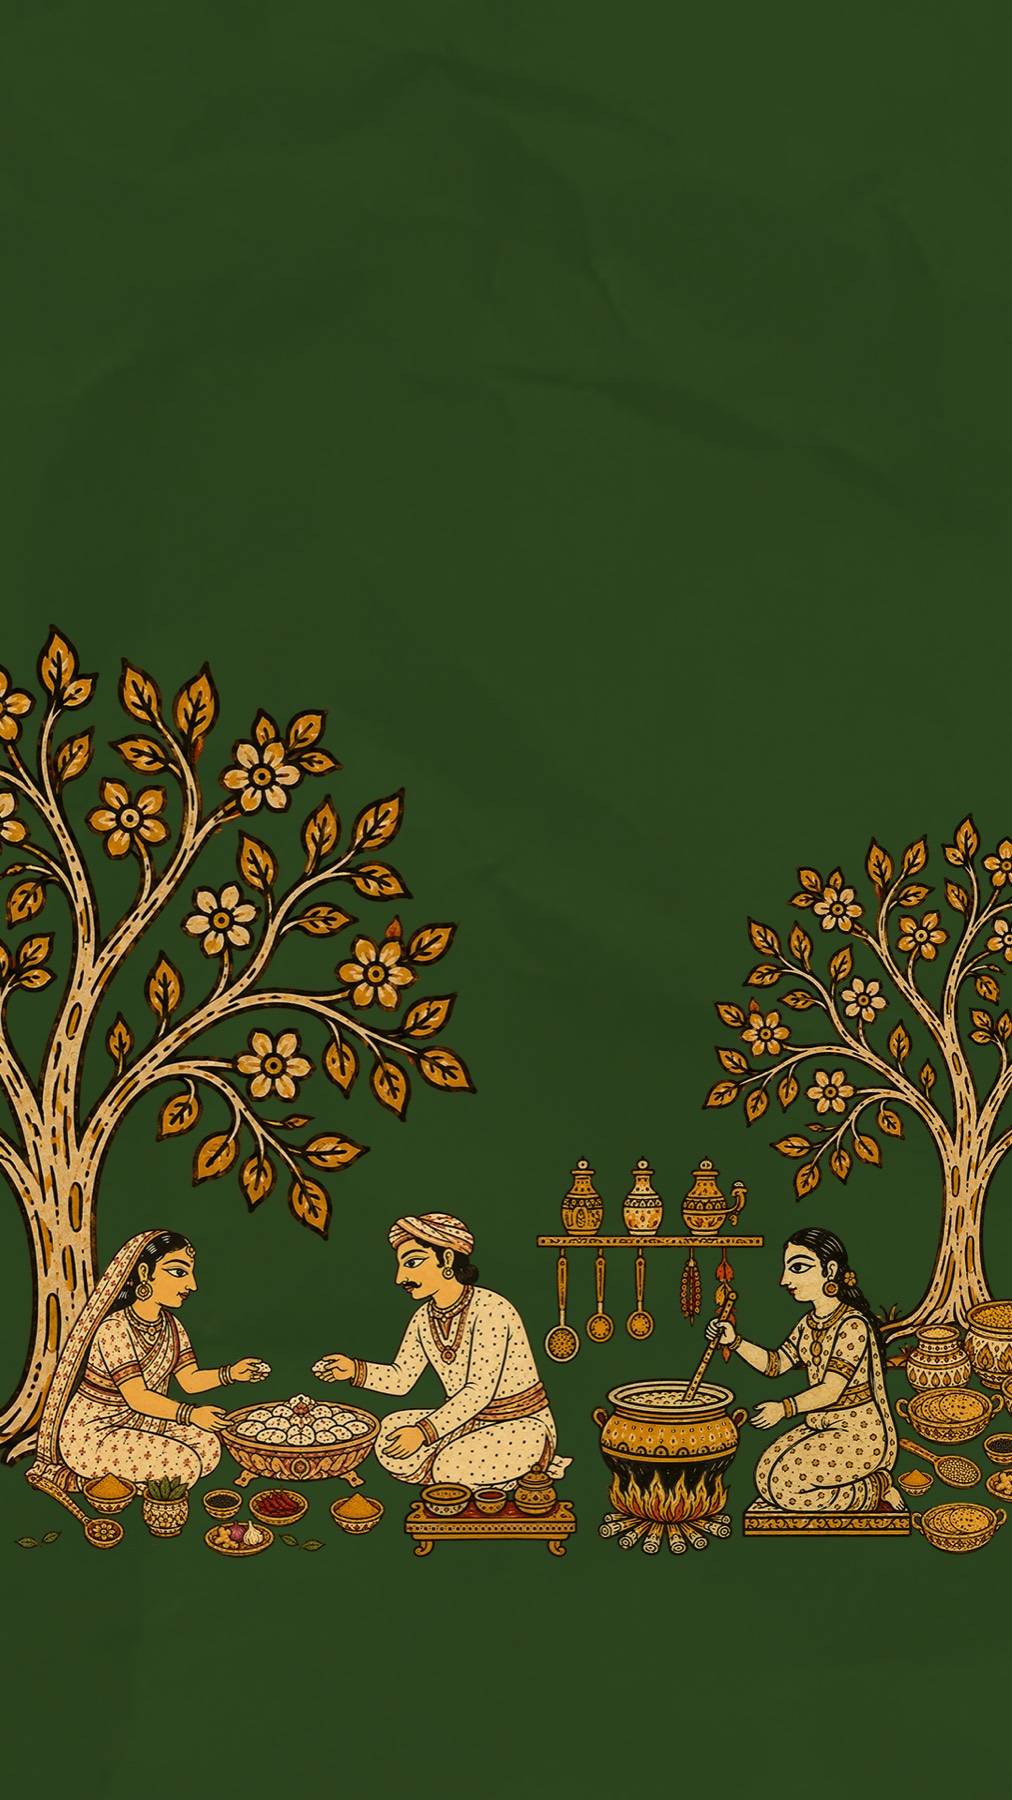
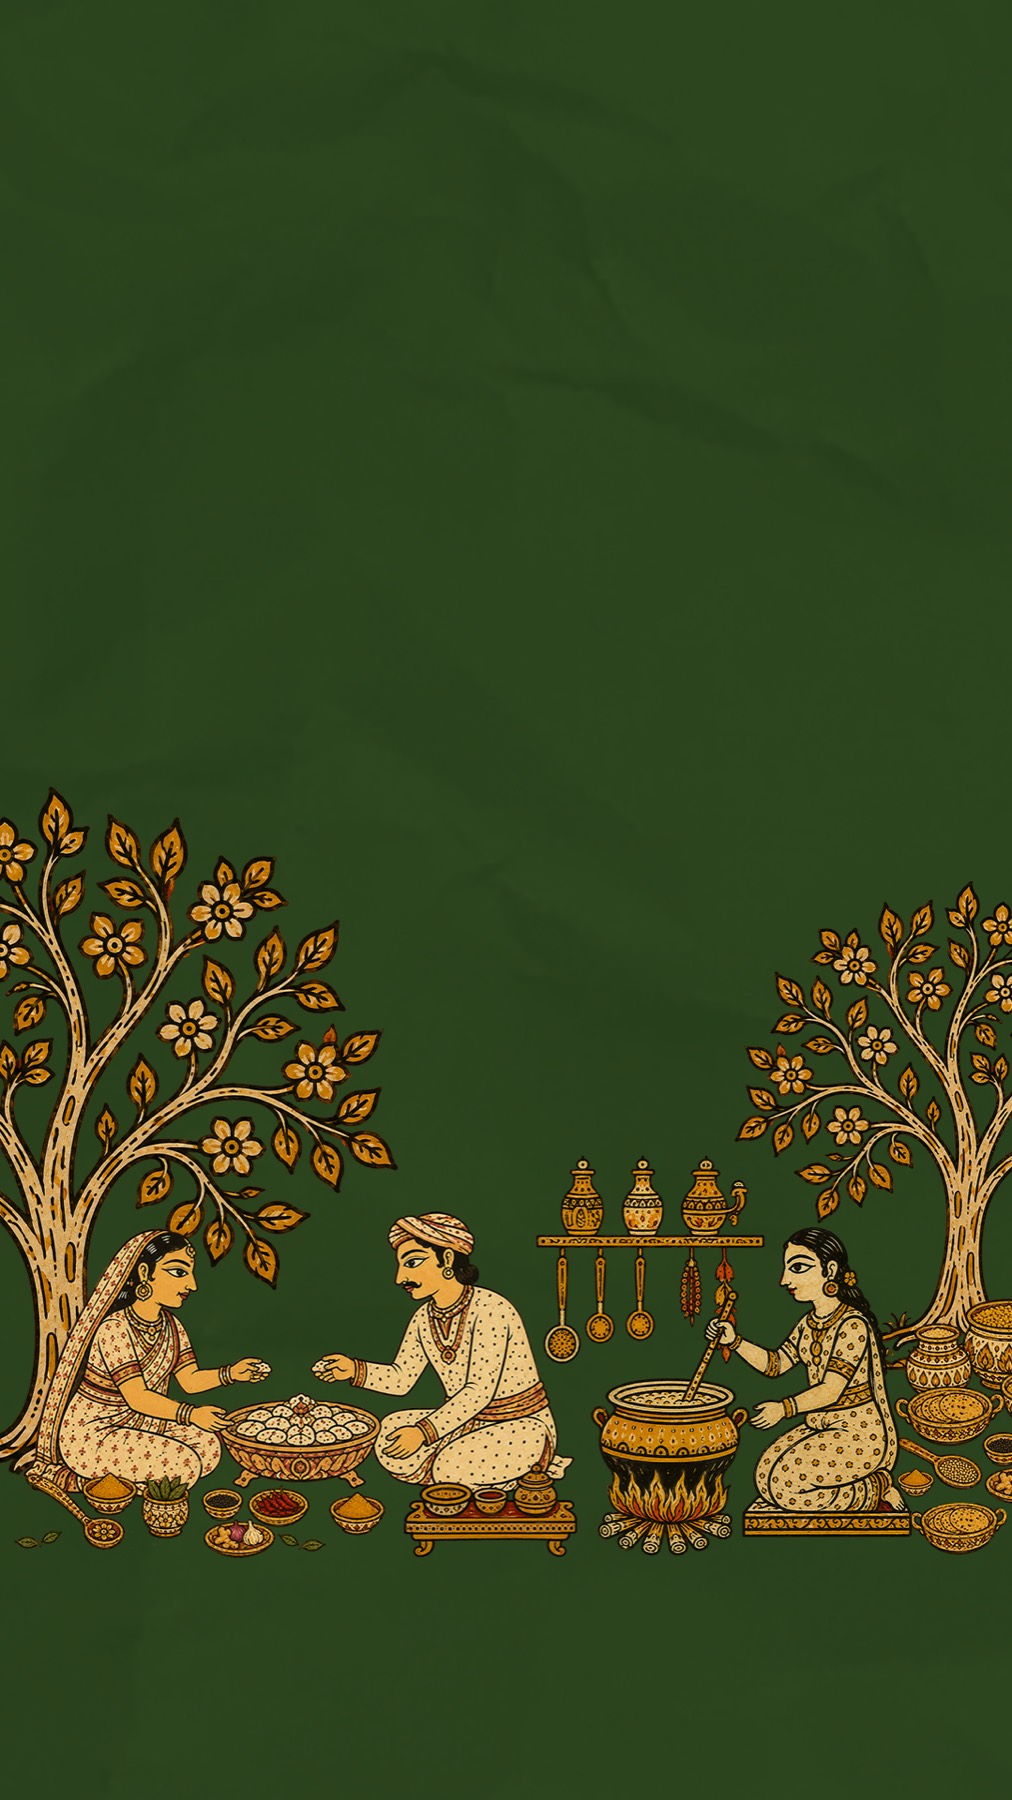
New phone plate, a smaller deck on phones, and the hero raised
Three separate asks.

The phone background becomes "Ui-cover-page 9-16", re-encoded to the 1012x1800
the stylesheet already asks for. Its ground samples #2c441e, the same green as
the plate it replaces, so --ground still agrees with the image and no token
moves. The desktop plate is untouched. The new art carries a band of empty
ground under the figures, so bottom-anchored it lifts them clear of the
composer instead of tucking them behind it.

The deck drops to 14px on phones only. The headline falls from 56px to 24px
there, and 16px beside it is close enough that the two read as one block of
text rather than a title and a line under it.

The mark rises 37px on desktop, from 107px down to 70px. The stack is
top-anchored, so the hero-wrap's top padding is the only thing above it and
the only way to raise it — the whole block rides up with it, which is the
point: the page was carrying more empty ground above the logo than the
composition wanted.

Changed region(s): [[0.0, 0.3422, 0.4901, 0.84], [0.7045, 0.4356, 1.0, 0.7778]]

diff --git a/src/app/globals.css b/src/app/globals.css
@@ -756,7 +756,11 @@ body {
   display: flex;
   flex-direction: column;
   align-items: center;
-  padding: clamp(40px, 13vh, 150px) var(--s-5) var(--s-5);
+  /* The stack is top-anchored, so this top padding is the only thing above the
+     mark and the only way to raise it. Lowered from 13vh: the page was carrying
+     more empty ground above the logo than below the composer, and the whole
+     block rides up with it. */
+  padding: clamp(28px, 8.5vh, 104px) var(--s-5) var(--s-5);
   overflow-y: auto;
 }
 
@@ -1776,6 +1780,13 @@ body {
      and the break it was fighting is a <br> that holds at every width. */
   .hero__title {
     font-size: clamp(1.375rem, 0.9rem + 2.6vw, 1.75rem);
+  }
+
+  /* The deck holds body size everywhere else, but the headline drops from 56px
+     to 24px here and 16px next to that is nearly the same size — the two read
+     as one block of text rather than a title and a line under it. */
+  .hero__subtitle {
+    font-size: 0.875rem;
   }
 
   .composer {
